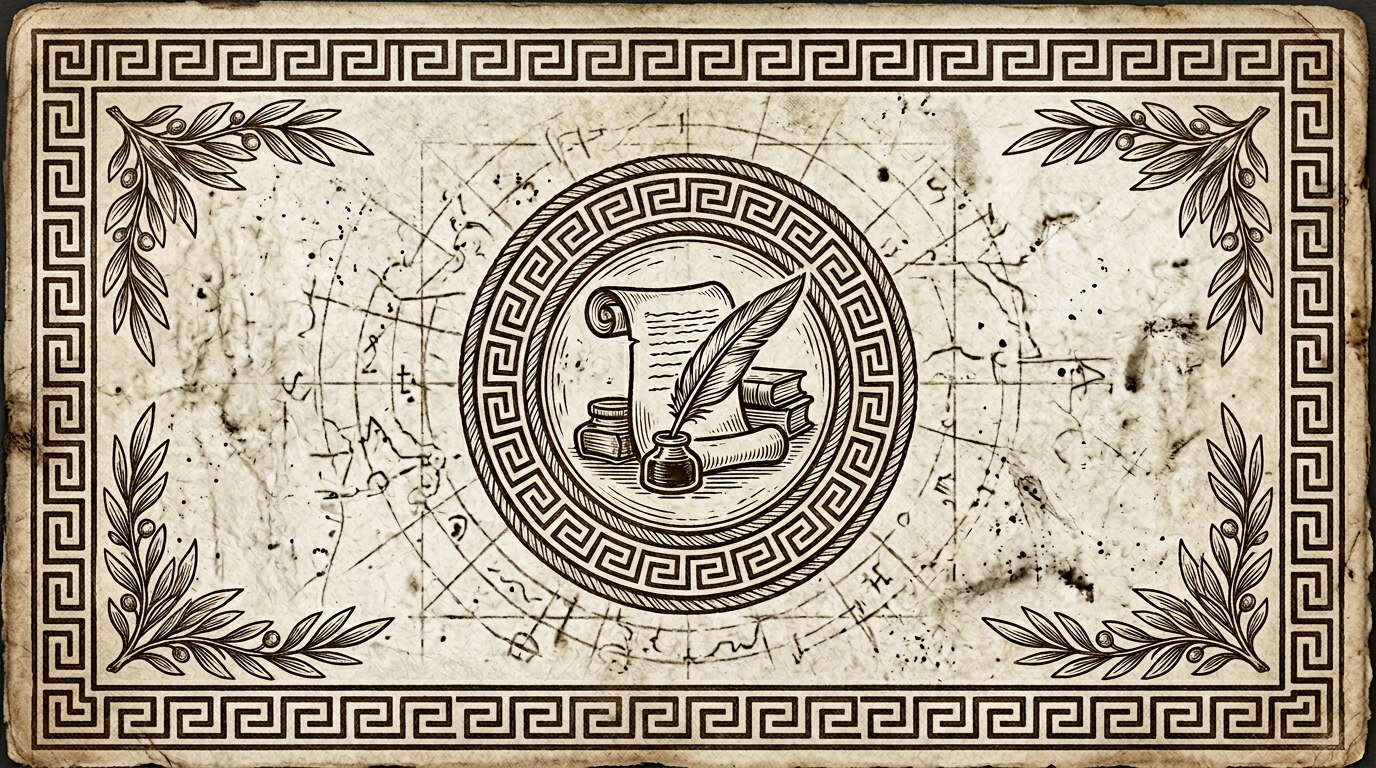
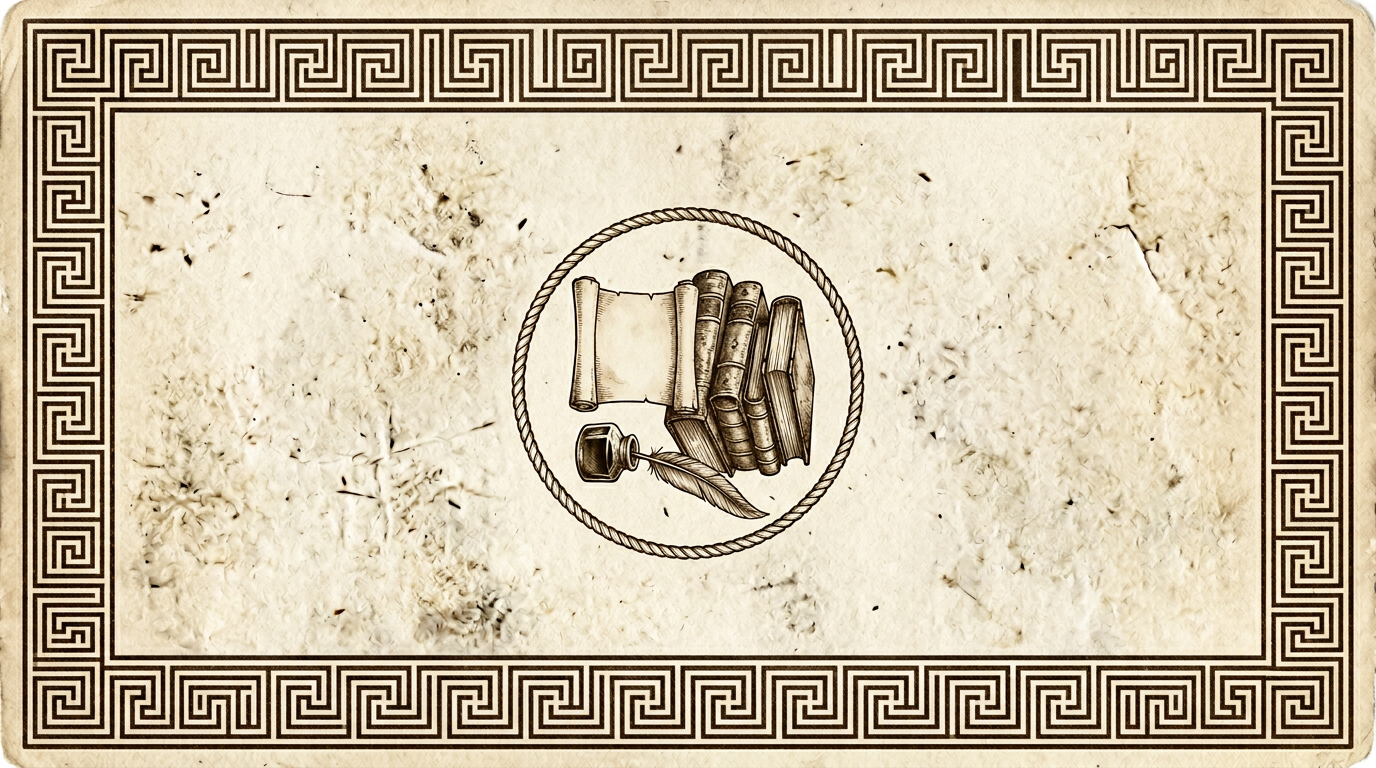
Update card backs: bronze/iron/paper redesign, CIV 5 UI fixes
Made-with: Cursor

diff --git a/CIV 5.html b/CIV 5.html
@@ -724,21 +724,24 @@
             line-height: 1.15;
             font-size: clamp(0.5em, 1.55vh, 0.78em);
             color: #2c1810;
-            padding: 0 22px;
+            padding: 0 24px;
             text-shadow: 1px 1px 2px rgba(255,255,255,0.5);
             overflow-wrap: break-word;
             word-break: normal;
             hyphens: none;
+            height: clamp(16px, 18%, 24px);
+            overflow: hidden;
+            display: flex;
+            align-items: center;
+            justify-content: center;
         }
 
         .card-ability {
             font-size: clamp(0.32em, 1.1vh, 0.58em);
             line-height: 1.2;
-            flex: 1;
-            min-height: 0;
-            overflow-y: auto;
-            overflow-x: hidden;
-            scrollbar-width: none;
+            flex: 0 0 auto;
+            height: clamp(24px, 42%, 44px);
+            overflow: hidden;
             text-align: center;
             color: #3a3a3a;
             padding: 2px 3px;
@@ -752,11 +755,6 @@
             display: block;
             -webkit-line-clamp: unset;
             -webkit-box-orient: unset;
-        }
-
-        .card-ability::-webkit-scrollbar {
-            width: 0;
-            height: 0;
         }
 
         .card-ability .inline-resource-icon {
@@ -6433,6 +6431,7 @@
                             }
 
                             slot.innerHTML = this.getCardHTML(card);
+                            this.applyTextFit(slot);
 
                             // Add activation button for cards with manual triggers
                             if (card.effect && card.effect.includes('trigger:manual')) {
@@ -6481,6 +6480,7 @@
                         console.error('Error creating PASSED card HTML:', error);
                         cardDiv.innerHTML = '<div class="card-name">PASSED</div><div class="card-ability">No cards available</div>';
                     }
+                    this.applyTextFit(cardDiv);
                     return cardDiv;
                 }
                 
@@ -6510,8 +6510,33 @@
                         <div class="card-ability">Error loading card</div>
                     `;
                 }
-                
+                this.applyTextFit(cardDiv);
                 return cardDiv;
+            }
+
+            applyTextFit(cardElement) {
+                if (!cardElement) return;
+                const titleEl = cardElement.querySelector('.card-name');
+                const abilityEl = cardElement.querySelector('.card-ability');
+                if (titleEl) this.shrinkTextToFit(titleEl, 6);
+                if (abilityEl) this.shrinkTextToFit(abilityEl, 5);
+            }
+
+            shrinkTextToFit(el, minPx = 6) {
+                const style = window.getComputedStyle(el);
+                let sizePx = parseFloat(style.fontSize);
+                if (!Number.isFinite(sizePx)) return;
+
+                // Reset to stylesheet size before fitting.
+                el.style.fontSize = '';
+                sizePx = parseFloat(window.getComputedStyle(el).fontSize);
+
+                let guard = 0;
+                while (guard < 40 && sizePx > minPx && (el.scrollHeight > el.clientHeight || el.scrollWidth > el.clientWidth)) {
+                    sizePx -= 0.5;
+                    el.style.fontSize = `${sizePx}px`;
+                    guard += 1;
+                }
             }
             
             getCardHTML(card, opts = {}) {
@@ -6580,9 +6605,11 @@
                 const assetBases = isLocal
                     ? ['assets/', '../assets/']
                     : [
+                        'assets/',
                         'https://raw.githubusercontent.com/samlaidh-hash/civilisations/master/assets/',
                         'https://cdn.jsdelivr.net/gh/samlaidh-hash/civilisations@master/assets/',
-                        'https://cdn.statically.io/gh/samlaidh-hash/civilisations/master/assets/'
+                        'https://cdn.statically.io/gh/samlaidh-hash/civilisations/master/assets/',
+                        'https://samlaidh-hash.github.io/civilisations/assets/'
                     ];
                 const slug = artSlugOverrides[safeCard.name] || String(safeCard.name || '')
                     .toLowerCase()
@@ -6591,11 +6618,16 @@
                 const artPath1 = assetBases[0] + `art-${slug}.png`;
                 const artPath2 = (assetBases[1] || assetBases[0]) + `art-${slug}.png`;
                 const artPath3 = (assetBases[2] || assetBases[0]) + `art-${slug}.png`;
-                const cinematicFallbackPath = assetBases[0] + 'art-masada-cinematic.png';
+                const artPath4 = (assetBases[3] || assetBases[0]) + `art-${slug}.png`;
+                const cinematicPath1 = assetBases[0] + 'art-masada-cinematic.png';
+                const cinematicPath2 = (assetBases[1] || assetBases[0]) + 'art-masada-cinematic.png';
+                const cinematicPath3 = (assetBases[2] || assetBases[0]) + 'art-masada-cinematic.png';
+                const cinematicPath4 = (assetBases[3] || assetBases[0]) + 'art-masada-cinematic.png';
+                const cinematicPath5 = (assetBases[4] || assetBases[0]) + 'art-masada-cinematic.png';
                 
                 return `
-                    <div class="card-art-backdrop" style="background-image: url('${cinematicFallbackPath}');">
-                        <img class="card-art-specific" src="${artPath1}" data-art2="${artPath2}" data-art3="${artPath3}" onerror="if(this.dataset.art2 && this.src !== this.dataset.art2){this.src=this.dataset.art2;return;} if(this.dataset.art3 && this.src !== this.dataset.art3){this.src=this.dataset.art3;return;} this.style.display='none';" alt="">
+                    <div class="card-art-backdrop" style="background-image: url('${cinematicPath1}'), url('${cinematicPath2}'), url('${cinematicPath3}'), url('${cinematicPath4}'), url('${cinematicPath5}');">
+                        <img class="card-art-specific" src="${artPath1}" data-art2="${artPath2}" data-art3="${artPath3}" data-art4="${artPath4}" onerror="if(this.dataset.art2 && this.src !== this.dataset.art2){this.src=this.dataset.art2;return;} if(this.dataset.art3 && this.src !== this.dataset.art3){this.src=this.dataset.art3;return;} if(this.dataset.art4 && this.src !== this.dataset.art4){this.src=this.dataset.art4;return;} this.style.display='none';" alt="">
                     </div>
                     <div class="card-header">
                         <div class="card-resources">${resourceIcons}</div>